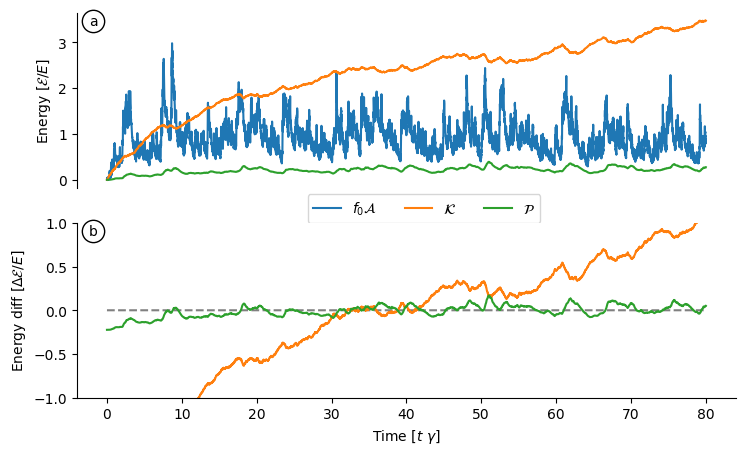
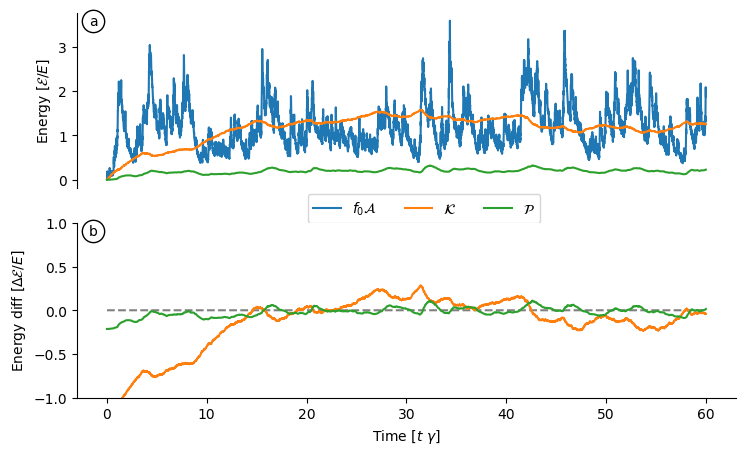
Updates reference figures

diff --git a/code/ReferenceSolution.py b/code/ReferenceSolution.py
@@ -50,7 +50,7 @@ f0 = 1.e-4
 N = 0.005
 
 # vertical plane wave
-λz = 1000
+λz = 800
 m = 2*np.pi/λz
 
 # vorticity dissipation
@@ -69,16 +69,15 @@ epsilon = (U0**2)*mu       # estimated energy input
 sigma_q = np.sqrt(epsilon) # the standard deviation of the random forcing
 sigma_w = 4*sigma_q
 
-# no drag
-mu = 0.
-
 # time
 dt = 0.000125*Tmu/4
-tmax = 40.*Tgamma
-tmax = 80.*Tgamma
+tmax = 60.*Tgamma
+#tmax = 80.*Tgamma
 
 # outputs
-path = "output/512_newest_nodrag"
+path = "output/new/512_reference"
+path_nodrag = "output/new/512_nodrag"
+path_nowaves = "output/new/512_nowaves"
 
 #
 # theoretical predictions
@@ -129,296 +128,49 @@ model = CoupledModel.Model(L=L,nx=nx, tmax = tmax,dt = dt, twrite=200,
                     f=f0,N=N,m=m,
                     wavenumber_forcing=kf,width_forcing=dkf,
                     sigma_q=sigma_q, sigma_w=sigma_w,
-                    use_mkl=True,nthreads=8)
+                    use_mkl=True,nthreads=12)
+
+model_nodrag = CoupledModel.Model(L=L,nx=nx, tmax = tmax,dt = dt, twrite=200,
+                    nu4=0.,mu=0.,nu4w=0.,nu=0,nuw=0,muw=gamma,
+                    use_filter=True,save_to_disk=True,
+                    tsave_snapshots=50,path=path_nodrag,
+                    U = 0., tdiags=50,
+                    f=f0,N=N,m=m,
+                    wavenumber_forcing=kf,width_forcing=dkf,
+                    sigma_q=sigma_q, sigma_w=sigma_w,
+                    use_mkl=True,nthreads=12)
+
+model_nowaves = CoupledModel.Model(L=L,nx=nx, tmax = tmax,dt = dt, twrite=200,
+                    nu4=0.,mu=mu,nu4w=0.,nu=0,nuw=0,muw=gamma*0,
+                    use_filter=True,save_to_disk=True,
+                    tsave_snapshots=50,path=path_nowaves,
+                    U = 0., tdiags=50,
+                    f=f0,N=N,m=m,
+                    wavenumber_forcing=kf,width_forcing=dkf,
+                    sigma_q=sigma_q, sigma_w=sigma_w*0,
+                    use_mkl=True,nthreads=12)
+
 
 # rest initial conditions
 model.set_q(np.zeros([model.nx]*2))
 model.set_phi(np.zeros([model.nx]*2)+0j)
 model._invert()
 
+model_nodrag.set_q(np.zeros([model.nx]*2))
+model_nodrag.set_phi(np.zeros([model.nx]*2)+0j)
+model_nodrag._invert()
+
+model_nowaves.set_q(np.zeros([model.nx]*2))
+model_nowaves.set_phi(np.zeros([model.nx]*2)+0j)
+model_nowaves._invert()
+
 
 #
 # run the model
 #
+model_nodrag.run()
 model.run()
-
-#
-# some quick plots
-#
-
-# snapshots
-
-# wave fields
-u,v, w, p, b = wave_fields(model.phi,model.f0,lamb**2,model.t,model.k,model.l,m,z=0)
-
-# potential vorticity and near-inertial kinetic energy
-fig = plt.figure(figsize=(10.5,5))
-cv = np.linspace(-2,2,100)
-cphi = np.linspace(0,3.,100)
-ax = fig.add_subplot(121,aspect=1)
-im1 = plt.contourf(model.x/Lf,model.y/Lf,model.q/Q,cv,\
-                cmin=cv.min(),cmax=cv.max(),extend='both',cmap=cmocean.cm.curl)
-plt.xlabel(r'$x\, k_f$')
-plt.ylabel(r'$y\, k_f$')
-
-plt.text(50.,51.5,r"$t\,\,\gamma = %3.2f$" % (model.t*model.muw))
-#plt.title(r'$t \times U_e k_e$= %3.2f' %(t))
-#figname = pathi+"figs2movie/"+fni[-18:-3]+".png"
-
-cbaxes = fig.add_axes([0.15, 1., 0.3, 0.025])
-plt.colorbar(im1, cax = cbaxes, ticks=[-2.,-1.,0,1,2],orientation='horizontal',
-                    label=r'Potential vorticity $[q/Q]$')
-
-ax = fig.add_subplot(122,aspect=1)
-im2 = plt.contourf(model.x/Lf,model.y/Lf,np.abs(model.phi)**2/(PHI**2),cphi,\
-                cmin=0,cmax=cphi.max(),extend='max',cmap=cmocean.cm.ice_r)
-
-plt.xlabel(r'$x\, k_f$')
-plt.yticks([])
-
-cbaxes = fig.add_axes([0.575, 1., 0.3, 0.025])
-plt.colorbar(im2,cax=cbaxes,ticks=[0,1.,2,3],orientation='horizontal',
-                 label=r'Wave action density $[\mathcal{A}/A]$')
-plt.savefig('figs/snapshots_pv_qg-niw', pad_inces=0, bbox_inches='tight')
-
-# potential vorticity and near-inertial vertical velocity
-cw = np.linspace(-0.05,0.05)
-
-fig = plt.figure(figsize=(10.5,5))
-cv = np.linspace(-2,2,100)
-cphi = np.linspace(0,1.5,100)
-ax = fig.add_subplot(121,aspect=1)
-im1 = plt.contourf(model.x/Lf,model.y/Lf,model.q/Q,cv,\
-                cmin=cv.min(),cmax=cv.max(),extend='both',cmap=cmocean.cm.curl)
-plt.xlabel(r'$x\, k_f$')
-plt.ylabel(r'$y\, k_f$')
-
-plt.text(50.,51.5,r"$t\,\,\gamma = %3.2f$" % (model.t*model.muw))
-#plt.title(r'$t \times U_e k_e$= %3.2f' %(t))
-#figname = pathi+"figs2movie/"+fni[-18:-3]+".png"
-
-cbaxes = fig.add_axes([0.15, 1., 0.3, 0.025])
-plt.colorbar(im1, cax = cbaxes, ticks=[-2.,-1.,0,1,2],orientation='horizontal',
-                    label=r'Potential vorticity $[q/Q]$')
-
-ax = fig.add_subplot(122,aspect=1)
-im2 = plt.contourf(model.x/Lf,model.y/Lf,w/PHI,cw,\
-                cmin=0,cmax=cphi.max(),extend='both',cmap=cmocean.cm.balance)
-
-plt.xlabel(r'$x\, k_f$')
-plt.yticks([])
-
-cbaxes = fig.add_axes([0.575, 1., 0.3, 0.025])
-plt.colorbar(im2,cax=cbaxes,ticks=[-0.05,-0.025,0.,0.025,0.05],orientation='horizontal',
-                 label=r'Wave vertical velocity $[w/\Phi]$')
-plt.savefig('figs/snapshots_pv_w_qg-niw', pad_inces=0, bbox_inches='tight')
-
-# potential vorticities 
-fig = plt.figure(figsize=(10.5,5))
-cv = np.linspace(-2,2,100)
-cphi = np.linspace(0,3.,100)
-ax = fig.add_subplot(121,aspect=1)
-im1 = plt.contourf(model.x/Lf,model.y/Lf,model.q_psi/Q,cv,\
-                cmin=cv.min(),cmax=cv.max(),extend='both',cmap=cmocean.cm.curl)
-plt.xlabel(r'$x\, k_f$')
-plt.ylabel(r'$y\, k_f$')
-
-plt.text(50.,51.5,r"$t\,\,\gamma = %3.2f$" % (model.t*model.muw))
-#plt.title(r'$t \times U_e k_e$= %3.2f' %(t))
-#figname = pathi+"figs2movie/"+fni[-18:-3]+".png"
-
-cbaxes = fig.add_axes([0.15, 1., 0.3, 0.025])
-plt.colorbar(im1, cax = cbaxes, ticks=[-2.,-1.,0,1,2],orientation='horizontal',
-                    label=r'Potential vorticity $[q/Q]$')
-
-ax = fig.add_subplot(122,aspect=1)
-im1 = plt.contourf(model.x/Lf,model.y/Lf,(model.q-model.q_psi)/Q,cv,\
-                cmin=cv.min(),cmax=cv.max(),extend='both',cmap=cmocean.cm.curl)
-
-plt.xlabel(r'$x\, k_f$')
-plt.yticks([])
-plt.savefig('figs/snapshots_pvs_qg-niw', pad_inces=0, bbox_inches='tight')
-
-#
-# quick look at the diagnostics
-#
-time = model.diagnostics['time']['value']
-KE_qg = model.diagnostics['ke_qg']['value']
-KE_niw = model.diagnostics['ke_niw']['value']
-PE_niw = model.diagnostics['pe_niw']['value']
-
-dt = time[1]-time[0]
-dPE_niw = np.gradient(PE_niw,dt)
-
-ENS_qg = model.diagnostics['ens']['value']
-ep_psi = model.diagnostics['ep_psi']['value']
-smalldiss_psi = model.diagnostics['smalldiss_psi']['value']
-
-chi_q =  model.diagnostics['chi_q']['value']
-
-energy_input = model.diagnostics['energy_input']['value']
-wave_energy_input = model.diagnostics['wave_energy_input']['value']
-ep_phi = model.diagnostics['ep_phi']['value']
-chi_phi = model.diagnostics['chi_phi']['value']
-smalldiss_phi = model.diagnostics['smalldiss_phi']['value']
-smallchi_phi = model.diagnostics['smallchi_phi']['value']
-gamma_r = model.diagnostics['gamma_r']['value']
-gamma_a = model.diagnostics['gamma_a']['value']
-xi_r = model.diagnostics['xi_r']['value']
-xi_a = model.diagnostics['xi_a']['value']
-
-skew = model.diagnostics['skew']['value']
-
-work_q = model.diagnostics['Work_q']['value']/time
-work_phi = model.diagnostics['Work_w']['value']/time
+model_nowaves.run()
 
 
-# plot energy
-fig = plt.figure(figsize=(9.5,4.))
-E = epsilon_q/model.mu/2
-Ew = PHI**2 / 2
-POWER = Ew/Tmu
-
-ax = fig.add_subplot(121)
-plt.plot(time*model.muw,KE_qg/E,label=r'$\mathcal{K}$')
-plt.plot(time*model.muw,PE_niw/E,label=r'$\mathcal{P}$')
-#plt.plot(time*model.mu,np.ones_like(time),'r--')
-plt.xlabel(r"Time $[t\,\,\gamma]$")
-plt.ylabel(r"Energy $[\mathcal{K},\mathcal{P} \,\, 2 \mu/\epsilon_q]$")
-plt.legend(loc=5)
-remove_axes(ax)
-plt.subplots_adjust(wspace=.35)
-ax = fig.add_subplot(122)
-plt.plot(time*model.muw,KE_niw/Ew,label=r'$\mathcal{P}$')
-#plt.plot(time*model.muw,np.ones_like(time),'r--')
-plt.xlabel(r"Time $[t\,\,\gamma]$")
-plt.ylabel(r"Wave action $[\mathcal{A} \,\, 2 f_0 \mu_w/\epsilon]$")
-remove_axes(ax)
-plt.savefig('figs/energy_and_action_qg-niw' , pad_inces=0, bbox_inches='tight')
-
-fig = plt.figure(figsize=(9.5,4.))
-
-ax = fig.add_subplot(111)
-plt.plot(time*model.muw,KE_qg/E,label=r'$\mathcal{K}$')
-plt.plot(time*model.muw,PE_niw/E,label=r'$\mathcal{P}$')
-plt.plot(time*model.muw,KE_niw/E,label=r'$f_0\mathcal{A}$')
-plt.xlabel(r"Time $[t\,\,\gamma]$")
-plt.ylabel(r"Energy $[\mathcal{E} \,\, 2 f_0 \mu/\epsilon_q]$")
-remove_axes(ax)
-plt.savefig('figs/energy_qgniw' , pad_inces=0, bbox_inches='tight')
-
-
-# K and P with mean energy removed (after equilibration)
-eq = time*model.muw > 4.
-teq = time[eq]
-dK_eq = KE_qg[eq]-KE_qg[eq].mean()
-dP_eq = PE_niw[eq]-PE_niw[eq].mean()
-
-fig = plt.figure(figsize=(9.5,4.))
-ax = fig.add_subplot(111)
-plt.plot(teq*model.muw,dK_eq/E,label=r'$\Delta\mathcal{K}$')
-plt.plot(teq*model.muw,dP_eq/E,label=r'$\Delta\mathcal{K}$')
-
-plt.xlabel(r"Time $[t\,\,\gamma]$")
-plt.ylabel(r"Energy anomaly $[\Delta\mathcal{E} \,\, 2 f_0 \mu/\epsilon_q]$")
-remove_axes(ax)
-plt.savefig('figs/energy_qgniw_anomaly' , pad_inces=0, bbox_inches='tight')
-
-
-# accumulated work
-fig = plt.figure(figsize=(9.5,4.))
-ax = fig.add_subplot(111)
-plt.plot(time*model.muw,time*(model.sigma_w**2)/2/Ew,'--',label='Theory')
-plt.plot(time*model.muw,work_phi*time/Ew,)
-plt.xlabel(r"Time $[t\,\,\gamma]$")
-plt.ylabel(r"Accumulated work ")
-plt.ylabel(r"Accumulated work $[W \,\, 2 \mu_w/\epsilon_q]$")
-remove_axes(ax)
-plt.savefig('figs/accumulated_work' , pad_inces=0, bbox_inches='tight')
-
-# a PE_niw energy budget
-residual = gamma_r+gamma_a+chi_phi+smallchi_phi-dPE_niw
-
-fig = plt.figure(figsize=(9.5,4.))
-ax = fig.add_subplot(111)
-plt.plot(time*model.muw,gamma_r/POWER,label=r'$\Gamma_r$')
-plt.plot(time*model.muw,gamma_a/POWER,label=r'$\Gamma_a$')
-#plt.plot(time*model.mu,xi_a,label=r'$\Xi_a$')
-#plt.plot(time*model.mu,xi_r,label=r'$\Xi_r$')
-plt.plot(time*model.muw,chi_phi/POWER,label=r'$-2\gamma\mathcal{P}$')
-#plt.plot(time*model.muw,smallchi_phi/POWER,label=r'$\chi_\phi$')
-#plt.plot(time*model.muw,dPE_niw/POWER,label=r'$d\mathcal{P}/dt$')
-#plt.plot(time*model.mu,residual/POWER,label=r'residual')
-plt.ylim(-5,5)
-plt.legend(loc=3,ncol=2)
-plt.ylabel(r"Power [$\dot \mathcal{P} \,/\, W$]")
-plt.xlabel(r"$t\,\, \gamma$")
-remove_axes(ax)
-plt.savefig('figs/PE_niw_budget' , pad_inces=0, bbox_inches='tight')
-
-fig = plt.figure(figsize=(9.5,4.))
-ax = fig.add_subplot(111)
-plt.plot(time*model.muw,(gamma_r+gamma_a)/POWER,label=r'$\Gamma_r+\Gamma_a$')
-#plt.plot(time*model.muw,gamma_a/POWER,label=r'$\Gamma_a$')
-#plt.plot(time*model.mu,xi_a,label=r'$\Xi_a$')
-#plt.plot(time*model.mu,xi_r,label=r'$\Xi_r$')
-plt.plot(time*model.muw,-chi_phi/POWER,label=r'$2\gamma\mathcal{P}$')
-#plt.plot(time*model.muw,smallchi_phi/POWER,label=r'$\chi_\phi$')
-#plt.plot(time*model.muw,dPE_niw/POWER,label=r'$d\mathcal{P}/dt$')
-#plt.plot(time*model.mu,residual/POWER,label=r'residual')
-plt.ylim(-.1,5)
-plt.legend(loc=2,ncol=2)
-plt.ylabel(r"Power [$\dot \mathcal{P} \,/\, W$]")
-plt.xlabel(r"$t\,\, \gamma$")
-remove_axes(ax)
-plt.savefig('figs/PE_niw_budget2' , pad_inces=0, bbox_inches='tight')
-
-fig = plt.figure(figsize=(9.5,4.))
-ax = fig.add_subplot(111)
-plt.plot(time*model.muw,np.zeros_like(time),'--',color='0.5')
-plt.plot(time*model.muw,(work_q)/POWER,label=r'Forcing')
-plt.plot(time*model.muw,ep_psi/POWER,label=r'Bottom-drag diss.')
-plt.plot(time*model.muw,-(gamma_r+gamma_a)/POWER,label=r'Stimulated generation')
-plt.plot(time*model.muw,(xi_a+xi_r)/POWER,label=r'Streaming')
-remove_axes(ax)
-plt.legend(loc=(0.7,0.6))
-plt.ylabel(r"Power [$\dot \mathcal{P} \,/\, W$]")
-plt.xlabel(r"$t\,\, \gamma$")
-plt.savefig('figs/ke_budget_generation' , pad_inces=0, bbox_inches='tight')
-
-
-
-# calculate spectrum
-E = 0.5 * np.abs(model.wv*model.ph)**2
-ki, Ei = spectrum.calc_ispec(model.kk, model.ll, E)
-
-E = 0.5 * np.abs(model.phih)**2
-_, Eiphi = spectrum.calc_ispec(model.kk, model.ll, E)
-
-E = (lamb**2) * 0.4 * np.abs(model.wv*model.phih)**2
-_, Piphi = spectrum.calc_ispec(model.kk, model.ll, E)
-
-np.savez("spec_qgniq_niw",k=ki,K=Ei,P=Piphi,A=Eiphi,kf=kf)
-
-# plot spectra
-#spec_qg = np.load("spec_qg-only.npz")
-S = epsilon_q/model.mu/2/kf
-
-fig = plt.figure(figsize=(6.5,4.5))
-ax = fig.add_subplot(111)
-#plt.loglog(ki/kf,spec_qg['K']/S,'k',linewidth=2,label=r'$\mathcal{K}$, waveless QG')
-plt.loglog(ki/kf,Ei/S,linewidth=2,label=r'$\mathcal{K}$, QG-NIW')
-#plt.loglog(ki/kf,Eiphi,linewidth=2,label=r'$\mathcal{A}$')
-#plt.loglog(ki/kf,Piphi,linewidth=2,label=r'$\mathcal{P}$')
-plt.ylim(1e-7,1e1)
-#plt.legend(loc=3)
-remove_axes(ax)
-plt.xlabel(r"Wavenumber [$k/k_f$]")
-plt.ylabel(r"Balanced kinetic energy density [$\mathcal{K} 2 \mu k_f \epsilon_q^{-1}$]")
-plt.savefig('figs/spectra' , pad_inces=0, bbox_inches='tight')
-
-
-
-
-
-
+1222

diff --git a/code/PlotDiagnosticsReference.py b/code/PlotDiagnosticsReference.py
@@ -12,7 +12,7 @@ import scipy.signal as signal
 
 plt.close('all')
 
-pathi = "output/512_new/"
+pathi = "output/new/512_reference/"
 patho = "../writeup/figs/"
 
 
@@ -135,7 +135,7 @@ pk = plt.plot(time,diags['ke_qg'][:]/E,label=r'$\mathcal{K}$')
 pp = plt.plot(time,diags['pe_niw']/E,label=r'$\mathcal{P}$')
 #plt.xlabel(r"Time $[t\,\,\gamma]$")
 plt.ylabel(r"Energy $[\mathcal{E}/E]$")
-plt.yticks([0,.5,1.,1.5])
+plt.yticks([0,.5,1.,1.5,2.,2.5])
 plt.legend(loc=(0.35,-0.2),ncol=3)
 remove_axes(ax,bottom=True)
 plot_fig_label(ax,xc=0.025,yc=0.95,label='a')
@@ -150,7 +150,7 @@ plt.ylim(-0.05,.05)
 plt.yticks([-0.05,0.0,.05])
 remove_axes(ax)
 plot_fig_label(ax,xc=0.025,yc=0.95,label='b')
-plt.savefig(patho+'energies_reference_hard' , pad_inces=0, bbox_inches='tight')
+plt.savefig(patho+'energies_reference' , pad_inces=0, bbox_inches='tight')
 
 # energy budgets
 fig = plt.figure(figsize=(8.5,8.))
@@ -189,7 +189,7 @@ plt.legend(loc=1,ncol=2)
 remove_axes(ax)
 plot_fig_label(ax,xc=0.025,yc=0.95,label='c')
 
-plt.savefig(patho+'K_and_P_and_A_budget_reference_hard', pad_inces=0, bbox_inches='tight')
+plt.savefig(patho+'K_and_P_and_A_budget_reference', pad_inces=0, bbox_inches='tight')
 
 
 #
